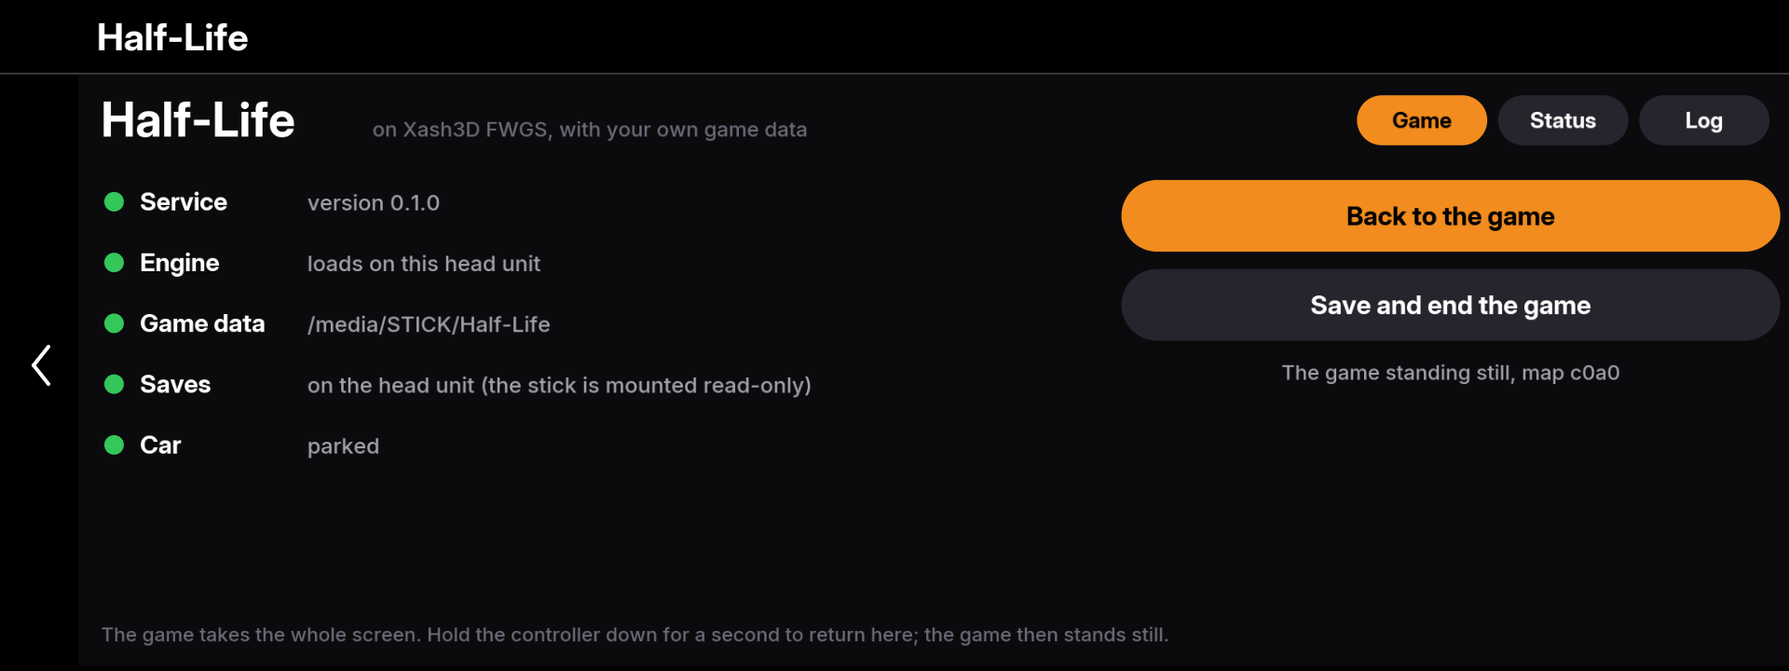
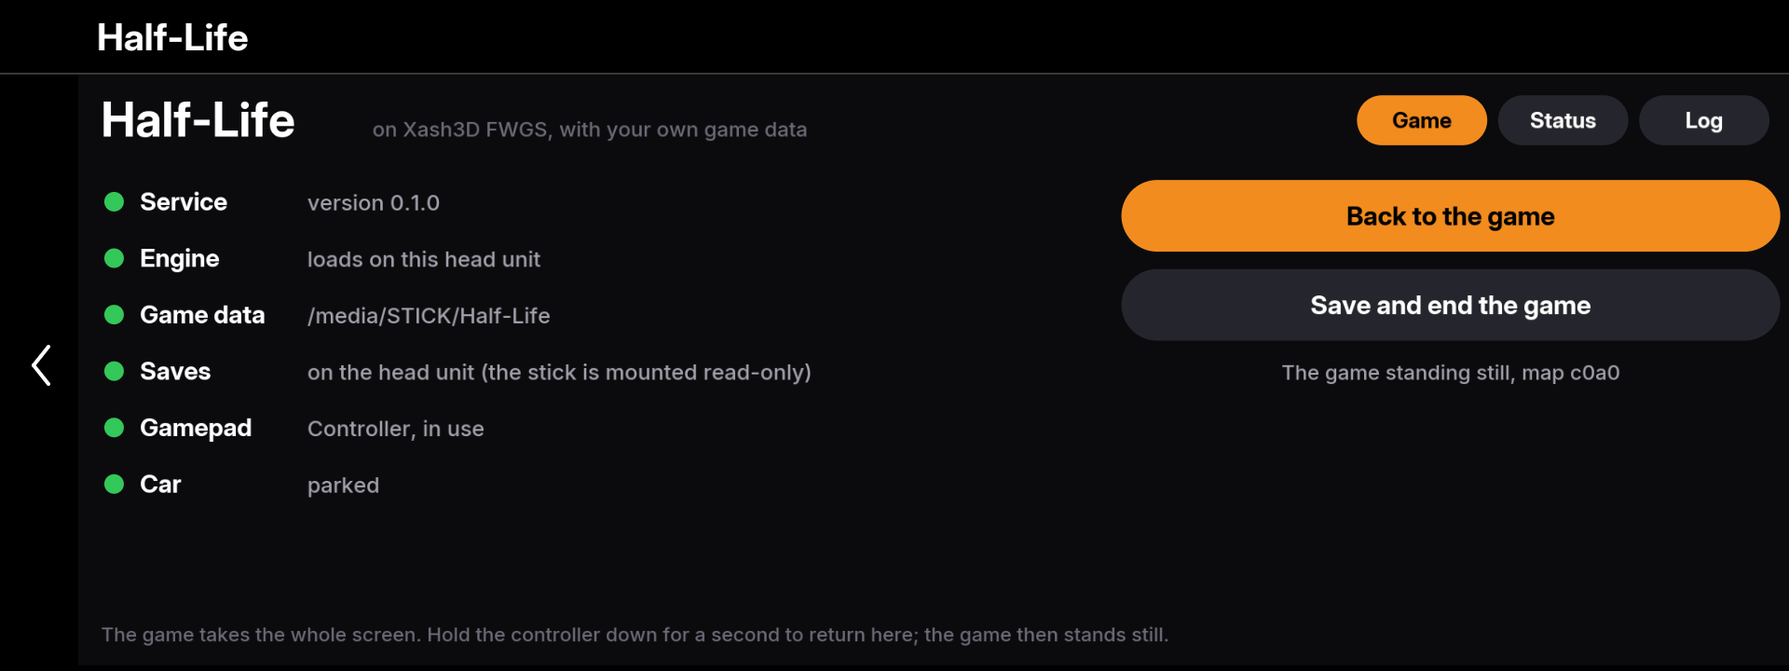
The app shows the gamepad; docs take in what the owner's other apps proved on the car
The launcher and the status page say whether a pad is plugged in, in use, or
not found. No pad stops nothing: the game starts and its menus work with the
controller.

RECON.md and STATUS.md now record what the owner reported from this car:
plex-idrive's picture and sound work there, so the frame file path and the
sound route exist; nes-idrive's pad reader works there; only the GPU
renderer's path shows a picture, and only an app's first canvas screen; an
app's log is a plain file. STATUS.md separates that from what is still
untested: everything of this project, including its own frame writer, its
own sound code, and the pad's program run as nobody.

Not run on the car.

diff --git a/apps/clucraft_halflife/ui.js b/apps/clucraft_halflife/ui.js
@@ -56,7 +56,16 @@ function createUi(o) {
     }
 
     /* ---------- the launcher ---------- */
-    /** the five things a game needs, each: [colour, name, what is known] */
+    /** the gamepad, as the service sees it. None is no fault (amber): the game starts, and its menus work without */
+    function padRow(p) {
+        if (!p) return [C.amber, 'Gamepad', 'this service reads none'];
+        if (p.program && !p.program.ok) return [C.red, 'Gamepad', 'its reader does not run on this head unit'];
+        if (p.reading) return [C.green, 'Gamepad', (p.name || 'a pad') + ', in use'];
+        if (p.error) return [C.amber, 'Gamepad', p.error];
+        if (p.found) return [C.green, 'Gamepad', (p.name || 'a pad') + ', plugged in'];
+        return [C.amber, 'Gamepad', 'none found: plug in an Xbox One or Series pad on a cable'];
+    }
+    /** what a game needs, each: [colour, name, what is known] */
     function checks() {
         const st = S.st, parked = env.parked();
         const rows = [];
@@ -70,6 +79,7 @@ function createUi(o) {
             rows.push(d.found ? [C.green, 'Game data', d.root] : [d.sticks && d.sticks.length ? C.red : C.amber, 'Game data', d.why || 'not found']);
             const sv = st.saves;
             if (sv) rows.push([C.green, 'Saves', (sv.where === 'stick' ? 'on the stick' : 'on the head unit (' + sv.why + ')') + (sv.canContinue ? ', a saved game is there' : '')]);
+            rows.push(padRow(st.pad));
         }
         rows.push(parked ? [C.green, 'Car', 'parked'] : [C.amber, 'Car', 'not parked: ' + env.parkedWhy()]);
         return rows;
@@ -77,7 +87,7 @@ function createUi(o) {
     function drawHome(cv, A, y0) {
         const colW = Math.min(900, A.w - 560);
         checks().forEach((r, i) => {
-            const y = y0 + i * 56;
+            const y = y0 + i * 52;
             cv.circle(A.x + 12, y + 20, 9, r[0]);
             cv.text(r[1], A.x + 36, y + 28, 23, C.text, B);
             cv.text(fit(cv, r[2], 20, colW - 200, M), A.x + 190, y + 28, 20, r[0] === C.green ? C.grey : r[0], M);
@@ -115,6 +125,7 @@ function createUi(o) {
                 ['Picture', s && s.w ? s.w + ' x ' + s.h : na],
                 ['Sound', !st ? na : !st.sound ? 'off' : !s ? na : s.sound ? 'on' + (s.underruns || s.stands ? ' (ran dry ' + s.underruns + ', stood ' + s.stands + ')' : '') : 'no device'],
                 ['Speakers', (() => { const a = env.audio(); return a.error ? a.error : a.connected ? 'connected' : a.on ? 'connecting' : 'not asked for'; })()],
+                ['Gamepad', padRow(st && st.pad)[2]],
             ]],
             ['The head unit', [
                 ['Engine, CPU', sys && sys.cpu !== null ? sys.cpu + ' % of one core' : na],
@@ -123,23 +134,24 @@ function createUi(o) {
                 ['Load', sys && sys.load !== null ? String(sys.load) : na],
                 ['Memory free', sys && sys.memAvailMb !== null ? sys.memAvailMb + ' MB' : na],
                 ['Car', env.parked() ? 'parked' : env.parkedWhy()],
+                ['Saves', st && st.saves ? (st.saves.where === 'stick' ? 'on the stick' : 'on the head unit') : na],
             ]],
         ];
-        const cw = (A.w - 40) / 2;
+        const cw = (A.w - 40) / 2, rows = 7, pitch = 38, cardH = rows * pitch + 56;
         cols.forEach((col, ci) => {
             const x = A.x + ci * (cw + 40);
-            cv.roundRect(x, y0, cw, 6 * 46 + 62, 14, C.card);
-            cv.text(col[0], x + 22, y0 + 36, 22, C.accent, B);
+            cv.roundRect(x, y0, cw, cardH, 14, C.card);
+            cv.text(col[0], x + 22, y0 + 34, 22, C.accent, B);
             col[1].forEach((r, i) => {
-                const y = y0 + 78 + i * 46;
-                cv.text(r[0], x + 22, y, 20, C.grey, M);
-                cv.text(fit(cv, r[1], 20, cw - 250, B), x + cw - 22, y, 20, C.text, right(B));
+                const y = y0 + 72 + i * pitch;
+                cv.text(r[0], x + 22, y, 19, C.grey, M);
+                cv.text(fit(cv, r[1], 19, cw - 230, B), x + cw - 22, y, 19, C.text, right(B));
             });
         });
-        const y = y0 + 6 * 46 + 62 + 34;
+        const y = y0 + cardH + 30;
         const last = e.error || (e.last ? 'Last ended: ' + e.last.why + (e.last.code ? ' (code ' + e.last.code + ')' : '') : '');
         if (last) cv.text(fit(cv, last, 19, A.w, M), A.x, y, 19, e.error ? C.amber : C.dim, M);
-        cv.text(fit(cv, 'App ' + env.version + (st ? ', service ' + st.version + (st.selftest ? ', ' + st.selftest.line : '') : ''), 17, A.w, M), A.x, y + 30, 17, C.dim, M);
+        cv.text(fit(cv, 'App ' + env.version + (st ? ', service ' + st.version + (st.selftest ? ', ' + st.selftest.line : '') : ''), 17, A.w, M), A.x, y + 26, 17, C.dim, M);
     }
 
     /* ---------- the log ---------- */

diff --git a/tools/shots.js b/tools/shots.js
@@ -26,7 +26,7 @@ console.log = (s) => { if (/^shot /.test(String(s))) quietLog(s); };   // (the s
     save(st, 'app-no-stick');
     await st.close();
 
-    st = await createStage({ carPaths: true, settings: { stats: true }, service: { engine: { env: { FAKE_STAT_MS: '100' } } } });
+    st = await createStage({ carPaths: true, pad: true, settings: { stats: true }, service: { engine: { env: { FAKE_STAT_MS: '100' } } } });
     const S = st.S;
     await st.until(() => S.st && S.st.selftest, 6000, 'the status');
     save(st, 'app-launcher');

diff --git a/docs/STATUS.md b/docs/STATUS.md
@@ -4,51 +4,72 @@ Last updated 2026-11-19.
 
 - Phase 0 (recon): reading finished. The car probe is deferred until the car is back on Wi-Fi.
 - Phase 1 (PC build): finished.
-- Phase 2 (backend, service, app, Store package): finished on the PC. Details in [BUILD.md](BUILD.md).
+- Phase 2 (backend, service, app, Store package, gamepad): finished on the PC. Details in [BUILD.md](BUILD.md).
 - Phase 3 (first run on the car): not started. It needs the probe first, and the owner's OK for each write.
+
+Nothing of this project has run on the car.
+
+## Known from the owner's other apps on this car
+
+Reported by the owner on 2026-11-19. These are the same head unit, other programs.
+
+- **plex-idrive works here:** video through mgu-render's frame file, and sound through the CarLife route to the speakers. So the display path and the sound route this project uses exist and work on this car, and so do the user `nobody` and the group `mgu_alsa`.
+- **nes-idrive's gamepad reader works here** (branch `mgu-store`, loader 0.2.0) with a wired Xbox One S pad, installed through the Store. This project carries that reader. Seen from the real pad: buttons, D-pad, both sticks, right trigger. Not seen from it: left trigger, stick clicks.
+
+- **Only the GPU renderer's path shows a picture here.** Pictures an app pushes to the HMI directly are refused, and the kit's renderer path serves an app's first canvas screen only (found with nes-idrive; the PC emulator shows neither). This app has one canvas screen with every page on it and requires a renderer, and a unit test keeps it so. Its fallback for a head unit without a renderer (the HMI's bar buttons) will show nothing on this car.
+- **An app's log** is a plain file on the unit: `/var/opt/public/oap/oap_<uid>/data/clucraft_halflife.log`. Phase 3 can read it with `cat`.
+
+What that does not cover is listed under "Untested on the car".
 
 ## Works on the PC
 
 - The engine and the game libraries build in an Ubuntu 18.04 container, pass the check against the head unit's C library, and are staged in `native/clucraft-halflife/bin`.
 - The engine's backend: picture into mgu-render's frame file, sound through ALSA at 48 kHz, input and "hold" as commands from the service, a 30 frames a second cap, no core dump on a crash.
-- The service (`native/clucraft-halflife`) with the real engine and the 25th-anniversary Steam data: 35 of 35 checks (`tools/run/service.sh`). New game, the game's menu, save on stop, "Continue", three picture sizes, recorded sound.
+- The service with the real engine and the 25th-anniversary Steam data: 41 of 41 checks (`tools/run/service.sh`). New game, the game's menu, save on stop, "Continue", three picture sizes, recorded sound.
 - The rules the service keeps: no game unless the app has just said "parked"; the game stands still when the car moves, when the app is not on the screen and when the app says nothing; it ends when the app goes away, after a crash and after a hang.
-- The app (`apps/clucraft_halflife`): launcher, game view, status, log, three settings. 16 of 16 unit tests on Node 24 and on Node 8.10, and it runs in the kit's emulator.
+- **Gamepad**, with a stand-in for the pad's USB packets and the real engine: the engine applies its Xbox layout, the right stick turns the view, the left stick walks, Menu opens the game's menu and B closes it, and a new game can be started from the game's own menu with D-pad and A alone. A pad's input never reaches a game that stands still, and the engine is told "everything let go" before a hold.
+- The gamepad's USB program is built from nes-idrive's source and is byte for byte nes-idrive's own file. It runs in the test container.
+- The app: launcher, game view, status, log, three settings. 18 of 18 unit tests on Node 24 and on Node 8.10, and it runs in the kit's emulator.
 - The Store package: `mgu-repo.json`, the tool's `component.json` and units, the app's `app.json`; checked against the Store's documented rules by the unit tests. Not checked by the Store itself.
 
 ## Untested on the car
 
-Everything. In particular:
+Everything of this project. In particular:
 
 - Probe batches: never run. On 2026-11-19 the head unit was not on the network; two connection attempts timed out before login, so nothing ran there.
 - Whether the built files load on this car's firmware. The check uses library facts from another owner's car. The service tests this itself at every start, and the Store rolls the tool back if it fails.
-- Whether mgu-render on this car shows the frame file. Only a PC-side reader has read it so far.
+- **This engine's own frame writer.** plex-idrive's player writes the frame file on this car; ours writes the same format with its own code, read so far only by a PC-side reader.
+- **This engine's own sound code.** The route works for plex-idrive's player; our backend opens the same device with its own code. The PC test device has a clock and takes 48 kHz, and that is all it has in common with SmartXbar.
 - Speed on the Atom. A frame costs 2.5 ms on the build PC; the Atom is several times slower per core.
-- Sound on the car: the device name, its three-periods-of-1024 buffer rule, the route to the speakers. The PC test device has a clock and takes 48 kHz, and that is all it has in common with SmartXbar.
-- The service's unit: `User=nobody` with the group `mgu_alsa`, `PermissionsStartOnly`, the limits. If that group does not exist on this car, the service will not start.
+- **The pad through this service.** nes-idrive runs the USB program as the app's user with the group of the pad's node; here it runs as `nobody` with the group `mgu_usb` from the service's unit. If `nobody` cannot open the node that way, the pad is not read and the launcher says so.
+- Which way the sticks point, with a real pad. The directions were checked on the PC against the real engine, from nes-idrive's statement that right and up are the greater numbers.
+- The service's unit as a whole: `User=nobody`, `SupplementaryGroups=mgu_alsa mgu_usb`, `PermissionsStartOnly`, the limits.
 - The iDrive controller in the game view (it needs the controller gate), the long press to leave the game, and touch.
 - The parked gate with real signals, with the ignition in each state.
 - Temperature under load. The service reads the thermal zones and logs them with the frame rate every 15 seconds while a game runs; nobody has documented the unit's limits.
+- Input delay of the pad. Not measured anywhere.
 
 ## Not done yet
 
-- **Gamepad.** The engine takes pad axes and buttons from the service already, but nothing reads a pad. The reader is being built in the owner's nes-idrive project; this project waits for it and reuses it. Until then the game can be started and its menus worked, not played.
 - Phases 3 to 5.
 - The README (Phase 5). Licence files and notices for everything shipped are in place.
+- Other pads: Xbox 360, PlayStation, plain HID and wireless dongles are not read.
+- A gamepad layout of this project's own. The engine's Xbox layout is used as it is (`native/clucraft-halflife/README.md` lists it); Phase 5 can change it.
 
 ## Decisions made in Phase 2, for the owner to overrule
 
 1. **The launcher takes touch through the kit**, as plex-idrive's pages do. **The game view claims no touch** unless the setting "Touch in the game's menus" is on; it is off by default, because one owner reported head-unit restarts after claiming touch on older firmware. With it off, a touch on the game leaves the game view.
 2. **BACK belongs to the HMI** and leaves the whole app. The way from the game back to the launcher is holding the controller down for a second.
 3. **Saves**: on the stick when it is mounted writable; otherwise in `/var/opt/clucraft-halflife/state/base`, the tool's own folder. Not the app's data folder: that is wiped when the app's process dies. Uninstalling the tool deletes saves kept on the head unit.
-4. **The service never runs as root.** The engine refuses to.
+4. **The service never runs as root.** The engine refuses to. That is why the pad's program runs as `nobody` here and not as nes-idrive runs it.
 5. **The app's title is "Half-Life"**, with "unofficial" in its description. Its icon is this project's own drawing, not the game's logo.
-6. **Committed binaries.** The Store installs a tool from files in the repository, so `native/clucraft-halflife/bin` (9.8 MB) is committed.
+6. **Committed binaries.** The Store installs a tool from files in the repository, so `native/clucraft-halflife/bin` (12 MB) is committed.
+7. **The gamepad reader is a copy inside this tool**, not a tool shared with nes-idrive: its own service, socket and program file name, as the owner described. `pad.js` and the program's source are kept unchanged so a fix in nes-idrive can be taken over as it is.
 
 ## Notes from the owner
 
 - SSH details for the probe: the ones in the owner's local notes. They stay out of this repository.
-- A USB gamepad reader is being built in the owner's nes-idrive project and is not finished.
+- The repository is on GitHub as `clucraft/halflife-idrive`, private. Ask before each push.
 
 ## Open questions
 
@@ -56,22 +77,20 @@ Waiting on the owner:
 
 1. The car awake and on Wi-Fi, for the probe.
 2. OK to run `df` on the unit (it is not on the ten-command list).
-3. Has the frame-file picture or the CarLife sound route ever worked on this car?
-4. Are saves under `/var/opt` acceptable (decision 3)?
-5. Is the controller gate (`mgu-inputgate`) installed on this car? The game view needs it for the controller.
+3. Are saves under `/var/opt` acceptable (decision 3)?
+4. Is the controller gate (`mgu-inputgate`) installed on this car? The game view needs it for the controller.
 
 Waiting on the probe (full list in RECON.md, section 12):
 
 1. Does this unit mount a USB stick at `/media` like the other documented car?
 2. RAM, Mesa version, EGL platforms, render-node permissions, libstdc++ version.
 3. Core-dump handling, thermal zones and trip points.
-4. Do the user `nobody` and the group `mgu_alsa` exist, and which ALSA names does SmartXbar define?
+4. Which ALSA names SmartXbar defines, and the mode and group of the pad's USB node as `nobody` sees it.
 
 ## Risks carried forward
 
-- A crash of a process the crash handler does not know restarts the head unit. Three things stand against it: the unit's `LimitCORE=1`, the launcher's name on the crash handler's list (from the head unit's next start after the install), and the engine making itself undumpable. Only the last is tested, and only on the PC.
-- Most head-unit facts come from another owner's car with older firmware. The probe has to confirm them before Phase 3.
-- The frame-file display path and the CarLife sound route are unproven on this car.
+- A crash of a process the crash handler does not know restarts the head unit. Three things stand against it: the unit's `LimitCORE=1`, the two programs' names on the crash handler's list (from the head unit's next start after the install), and the engine making itself undumpable. The pad's program has only the first two. Only the engine's own part is tested, and only on the PC.
+- Head-unit facts that neither the owner's other apps nor the nes-idrive probe cover still come from another owner's car with older firmware. The probe has to confirm them before Phase 3.
 - The software renderer may not hold 30 frames a second on the Atom. Its picture is coarse (16-bit colour inside). The GPU renderer stays the plan for Phase 4.
 - SmartXbar's buffer is 64 ms. A frame that takes longer than that makes a gap in the sound.
-- The kernel has no input layer, so the gamepad needs a USB reader in user space, and the owner's pad uses the harder protocol.
+- plex-idrive and this app use the same sound source (287). Only one of them can have the speakers at a time; this app takes them while a game is on the screen and gives them back.

diff --git a/docs/RECON.md b/docs/RECON.md
@@ -9,6 +9,7 @@ Sources are marked like this:
 | Mark | Meaning |
 |---|---|
 | **[car]** | Read from this head unit, read-only. So far only the nes-idrive controller probe. |
+| **[owner]** | The owner reports it from this car, from running another of their apps there. |
 | **[other car]** | Another owner documented it from their own car. Firmware and kernel differ from ours (theirs `4.14.147-apl`, ours `4.14.198-apl`). |
 | **[code]** | What reference code does. It shows what its author expected of the unit, not that it ran there. |
 | **[doc]** | A README or protocol document says so. |
@@ -77,7 +78,10 @@ The frame file is real and specified, but it is a video path, not a framebuffer.
 - **Full screen** [code]: a layer placed at 0,0 1920x720 covers the HMI including its status strip and back column. An app is shown only while it is the front app, and layers yield to the camera surfaces.
 - **Watchdog** [code]: the renderer hides a layer whose app sends nothing for 3 s. New video frames do not count, so the app must send at least one message a second.
 - **Two renderers, two kits** [code]: the Store's `mgu-render` and the kit's `idrive7-renderd` are the same program under two names and sockets. The `video` operation in the JavaScript client exists in the M850i-amn fork of the kit that plex-idrive copies and in mgu-render's own client, not in the upstream kit runtime.
-- **Seen working?** plex-idrive has not run on a car [doc]. Vizualyse's notes say video on the frame file worked on their unit, and moonride streams through it on a G05 [other car]. No measured frame rate or copy cost on an iDrive 7 car was found anywhere.
+- **Seen working?** Yes, on this car: plex-idrive plays video through the frame file here [owner, 2026-11-19]. Vizualyse's notes say the same of their unit, and moonride streams through it on a G05 [other car]. No measured frame rate or copy cost on an iDrive 7 car was found anywhere.
+
+- **What does not show on this car** [owner, 2026-11-19, from nes-idrive]: every picture an app pushes to the HMI directly is refused (RHMI image updates fail with `INVALID_MODELID`). Only what goes through the GPU renderer shows. The kit's renderer path serves the first canvas screen of an app only; a second drawn screen stays blank. The PC emulator shows neither problem. So an app draws everything on one canvas screen and requires a renderer. This project's app does: one screen, with the launcher, status and log as pages on it; the game is a second connection to the renderer, as plex-idrive's player is.
+- **An app's log on the head unit** [owner]: a plain file, `/var/opt/public/oap/oap_<uid>/data/<app id>.log`.
 
 Other pixel routes in the same renderer protocol [code]: opaque or premultiplied RGBA pixmaps and INDEX8 pixmaps up to 2048 a side with region updates, sent over the socket (24 MiB message limit). The kit's Doom uses image uploads at up to 1920x504.
 
@@ -89,6 +93,7 @@ Consequences:
 ## 5. Sound path
 
 - **Route** [code]: the app asks the GENIVI audio manager over SOME/IP (`org.genivi.am.commandinterface.CommandControl`) to connect source 287 ("CarLife") to sink 1024 (front media), after marking the source available through the routing interface. Without that step the connect never completes [other car]. plex-idrive, moonride and Vizualyse all do it this way.
+- **On this car** [owner, 2026-11-19]: plex-idrive's sound plays through this route here. Its player runs as `nobody` with the groups `video` and `mgu_alsa`, so that user and those groups exist on this unit. This project's app uses the same module for the route; its engine's sound code is its own and has not run here.
 - **Device** [code]: ALSA `plug:smartx:CarLifeMedia_CF_48_STEREO`, S16LE stereo, 48 kHz native. There is no `default` device and no `aplay` on the unit [other car].
 - **Buffering** [other car]: SmartXbar imposes three periods of 1024 frames (64 ms).
 - **Access** [code]: group `mgu_alsa`. moonride's whole service runs as `nobody` with `video`, `mgu_usb` and `mgu_alsa` as supplementary groups.
@@ -103,6 +108,8 @@ Consequences:
 - **Gamepad**: the kernel has no input layer [car] and accepts no unsigned modules [other car], so no pad ever produces `/dev/input` nodes and the engine's evdev code is useless here. The only route is a userspace reader on usbfs with group `mgu_usb`.
 - **What exists** [code]: moonride and Vizualyse both read Xbox 360-protocol pads (interface class `ff/5d/01`) through usbfs ioctls, with a start-up LED packet; an 8BitDo adapter in X-input mode and a Flydigi pad are reported working [other car]. Neither supports Xbox One "GIP" pads. nes-idrive's reader does GIP, with start-up packets taken from the kernel's `xpad.c`, and has run only against a stand-in.
 - **The owner's pad** is an Xbox One S pad [car], which is GIP: it needs the start-up handshake before it reports anything. Supporting both protocols is the safe plan.
+- **Proven on this car** [owner, 2026-11-19]: nes-idrive's reader (branch `mgu-store`) plays its NES app with that pad on this unit, installed through the Store. A small static program passes one USB interface's packets through usbfs as lines of hex; `pad.js` holds the GIP protocol. Seen from the real pad: buttons, D-pad, both sticks and the right trigger. Not seen from it: the left trigger and the stick clicks (they follow the kernel's `xpad.c`). Not proven: any other pad, input delay, rumble.
+- **This project** carries a copy of both (`native/clucraft-halflife/pad.js`, `port/usbpipe/`): the program is byte for byte nes-idrive's, under a file name of its own, and the service runs it as `nobody` with the group `mgu_usb`. nes-idrive ran it as the app's user with the node's group; that difference has not run on the car.
 - **iDrive controller** [code]: SOME/IP field `statusRotaryEncoderState` of `de.bmw.infotainment.controlelements.FrontCCU` (turn counter, press, tilt). With the `mgu-inputgate` tool installed an app can hold the controller so the HMI stops reacting. That tool is preloaded into the HMI by its own Store package, and the brief allows nothing beyond it.
 - **Touch**: the display's touch packets reach an app only if it claims regions through the renderer. One owner reports two unit restarts after claiming touch on older firmware and forbids it; moonride and the Store rely on it on newer firmware [other car, conflicting]. The first versions should not claim touch at all.
 - **BACK, MENU, HOME** always stay with the HMI [code].
@@ -282,7 +289,7 @@ Pending.
 | Add a video backend under `engine/platform/linux` | The non-SDL Linux client there is broken and has no GL path | A backend directory of our own, following the porting guide; reuse `s_alsa.c` |
 | Frames to the mgu-render frame file | The file is YUV 4:2:0 video; seen working on other cars, not on this one | Keep it as the plan and convert in the backend; RGBA pixmaps over the socket are the fallback |
 | Start at 1280x720 or lower | The screen is 1920x720 | Start at 1280x480, capped at 30 fps |
-| Input from the gamepad (evdev) | No input layer in the kernel, and no way to add one | A usbfs reader of our own for Xbox 360 and Xbox One pads; controller forwarded by the app |
+| Input from the gamepad (evdev) | No input layer in the kernel, and no way to add one | A usbfs reader in the service: nes-idrive's, which reads Xbox One and Series pads and is proven on this car; controller forwarded by the app |
 | Touch for menus | Claiming touch restarted one owner's unit twice | No touch in the first versions |
 | Game data on a USB stick | Sticks mount read-only and noexec on another car; unverified here | Read the data from the stick with `-rodir`; the stick test confirms |
 | Saves on the stick if writable, otherwise the app's data folder | The stick is read-only as mounted, and the app's data folder is wiped when its process dies | Saves in the tool's own folder under `/var/opt`. Remounting the stick read-write is possible but changes a system mount |
@@ -308,6 +315,6 @@ For the probe:
 
 For the owner:
 
-1. Has the frame-file path or the CarLife sound route ever worked on this car?
-2. Xbox One S pad only, or is an Xbox 360-protocol pad or adapter available too?
+1. ~~Has the frame-file path or the CarLife sound route ever worked on this car?~~ Answered 2026-11-19: both work here, in plex-idrive.
+2. ~~Xbox One S pad only, or is an Xbox 360-protocol pad or adapter available too?~~ The Xbox One S pad works here through nes-idrive's reader, which this project now carries. Other pads are not read.
 3. Are saves under `/var/opt` acceptable, given that the stick is read-only as mounted?

diff --git a/docs/BUILD.md b/docs/BUILD.md
@@ -12,7 +12,7 @@ Everything here runs on the PC. Nothing touches the car, and the game data is on
 
 | Folder | What it is |
 |---|---|
-| `port/` | This project's changes to the engine: `engine.patch` (edits to upstream files), `engine/` (new files), `pins.env` (the upstream commits). |
+| `port/` | This project's changes to the engine: `engine.patch` (edits to upstream files), `engine/` (new files), `pins.env` (the upstream commits). `usbpipe/` is the source of the gamepad's USB program, from nes-idrive. |
 | `native/clucraft-halflife/` | The Store tool: the service and, in `bin/`, the built engine. |
 | `apps/clucraft_halflife/` | The Store app: launcher, game view, status, log. |
 | `kit/` | The MGU App Kit the app is built with, as plex-idrive carries it. |
@@ -45,6 +45,14 @@ bash tools/build/stage.sh
 
 9.8 MB in all.
 
+### The gamepad's program
+
+```sh
+node tools/build/build-pad.js
+```
+
+Builds `bin/clucraft-hl-pad` from `port/usbpipe/main.go` and writes `bin/PAD.json`. It needs Go 1.21 or later and nothing else, and runs on any computer, Windows included. The source is nes-idrive's `nes-usbpipe`, unchanged; with Go 1.26.5 the result is byte for byte the file nes-idrive commits, and `PAD.json` says whether it is. It has another file name here because the head unit's crash handler knows programs by file name. 1.6 MB, static.
+
 ### What the check enforces
 
 - The launcher names the loader at `/lib/ld-linux-x86-64.so.2`, the only place the head unit has it.
@@ -64,7 +72,7 @@ Edit upstream files in `<work>/xash3d-fwgs`, then run `bash tools/build/save-pat
 
 - **Video** (`vid_mgu.c`): no window. The software renderer draws into a buffer, and each finished frame is converted to I420 and written to the next slot of a frame file in the format mgu-render shows (`mgvf.h`). Default size 1280x480; `-width` and `-height` change it.
 - **Sound** (`snd_mgu.c`): ALSA, written for the car's sound service. It opens the device at 48 kHz (`-alsarate`), converts the engine's 44.1 kHz itself, takes whatever buffer the device has, and never waits for it. While the device takes nothing (the car has not connected it to the speakers) the sound is dropped instead of queued. The engine's own ALSA code gave up on a 48 kHz device behind a rate converter, which is what the car has.
-- **Input** (`sys_mgu.c`): nothing opens a device. Keys, pad axes and touch arrive as commands on stdin (`mgu_key`, `mgu_axis`, `mgu_touch`).
+- **Input** (`sys_mgu.c`): nothing opens a device. Keys, pad axes and touch arrive as commands on stdin (`mgu_key`, `mgu_axis`, `mgu_touch`). `mgu_pad 1` says that a gamepad is being read; the engine then applies its own Xbox button layout, once.
 - **Hold** (`sys_mgu.c`): `mgu_hold 1` stops the main loop where it stands: no frame, no game time, no sound, no CPU. `mgu_hold 0` lets it go on as if no time had passed.
 - **Frame rate**: capped at 30 in the backend (`-mgufps`). The engine's own cap steps aside when its vsync setting is on, which is the default.
 - **Life cycle**: SIGTERM, SIGINT and SIGHUP quit the ordinary way (config saved, frame file removed, exit code 0); a second signal ends it at once. When stdin ends, the service is gone and the engine quits. It refuses to run as root.
@@ -76,7 +84,7 @@ Edit upstream files in `<work>/xash3d-fwgs`, then run `bash tools/build/save-pat
 
 | Command | What it runs | Needs |
 |---|---|---|
-| `npm test` | The service with a stand-in engine, the app's pages, `main.js` from the staged package, the manifests | Node, Python 3 |
+| `npm test` | The service with a stand-in engine and a stand-in gamepad, the app's pages, `main.js` from the staged package, the manifests | Node, Python 3 |
 | `bash tools/run/tests-node8.sh` | The same on Node 8, in a container | Docker |
 | `bash tools/run/service.sh` | The real service with the real engine and your game data: picture, sound, input, hold, save, crash, hang | Docker, the game |
 | `bash tools/run/headless.sh <name> <seconds> [args]` | The engine alone, for one picture or a timedemo | Docker, the game |
@@ -93,9 +101,11 @@ All on the PC. None of it has run on the car.
 
 | Test | Result |
 |---|---|
-| `npm test` | 16 of 16 on Node 24 (Windows) and on Node 8.10 (container) |
-| `tools/run/service.sh` | 35 of 35 checks, with the 25th-anniversary Steam data |
+| `npm test` | 18 of 18 on Node 24 (Windows) and on Node 8.10 (container) |
+| `tools/run/service.sh` | 41 of 41 checks, with the 25th-anniversary Steam data |
 | App in the kit's emulator | Launcher, start, game view, "not parked" hold, return to the launcher: all seen working |
+
+The emulator is not the car: on the owner's car only the GPU renderer's path shows a picture, and only an app's first canvas screen (RECON.md, section 4). The emulator shows more than that.
 
 What the run with the real engine showed:
 
@@ -110,6 +120,8 @@ What the run with the real engine showed:
 | The app goes away | The game is saved and ended after the set time |
 | Crash (SIGSEGV) | Exit code 139 within seconds, no core file, no frame file, the report in the log |
 | Hang (SIGSTOP) | Ended by the service, with SIGKILL as the last step |
+| Gamepad (a stand-in for the pad's USB packets, the real engine) | The engine applies its Xbox layout; the right stick turns, the left stick walks; Menu opens the game's menu and B closes it; D-pad and A start a new game from the game's own menu |
+| Gamepad's USB program | Runs in the container; byte for byte nes-idrive's file |
 | What the engine wrote | 0.1 MB: config, one save, an id file |
 
 The head unit's Atom is several times slower per core than the PC. 2.5 ms a frame here says the software renderer has room at 30 frames a second, not that the car reaches it. That is Phase 3's to measure.
